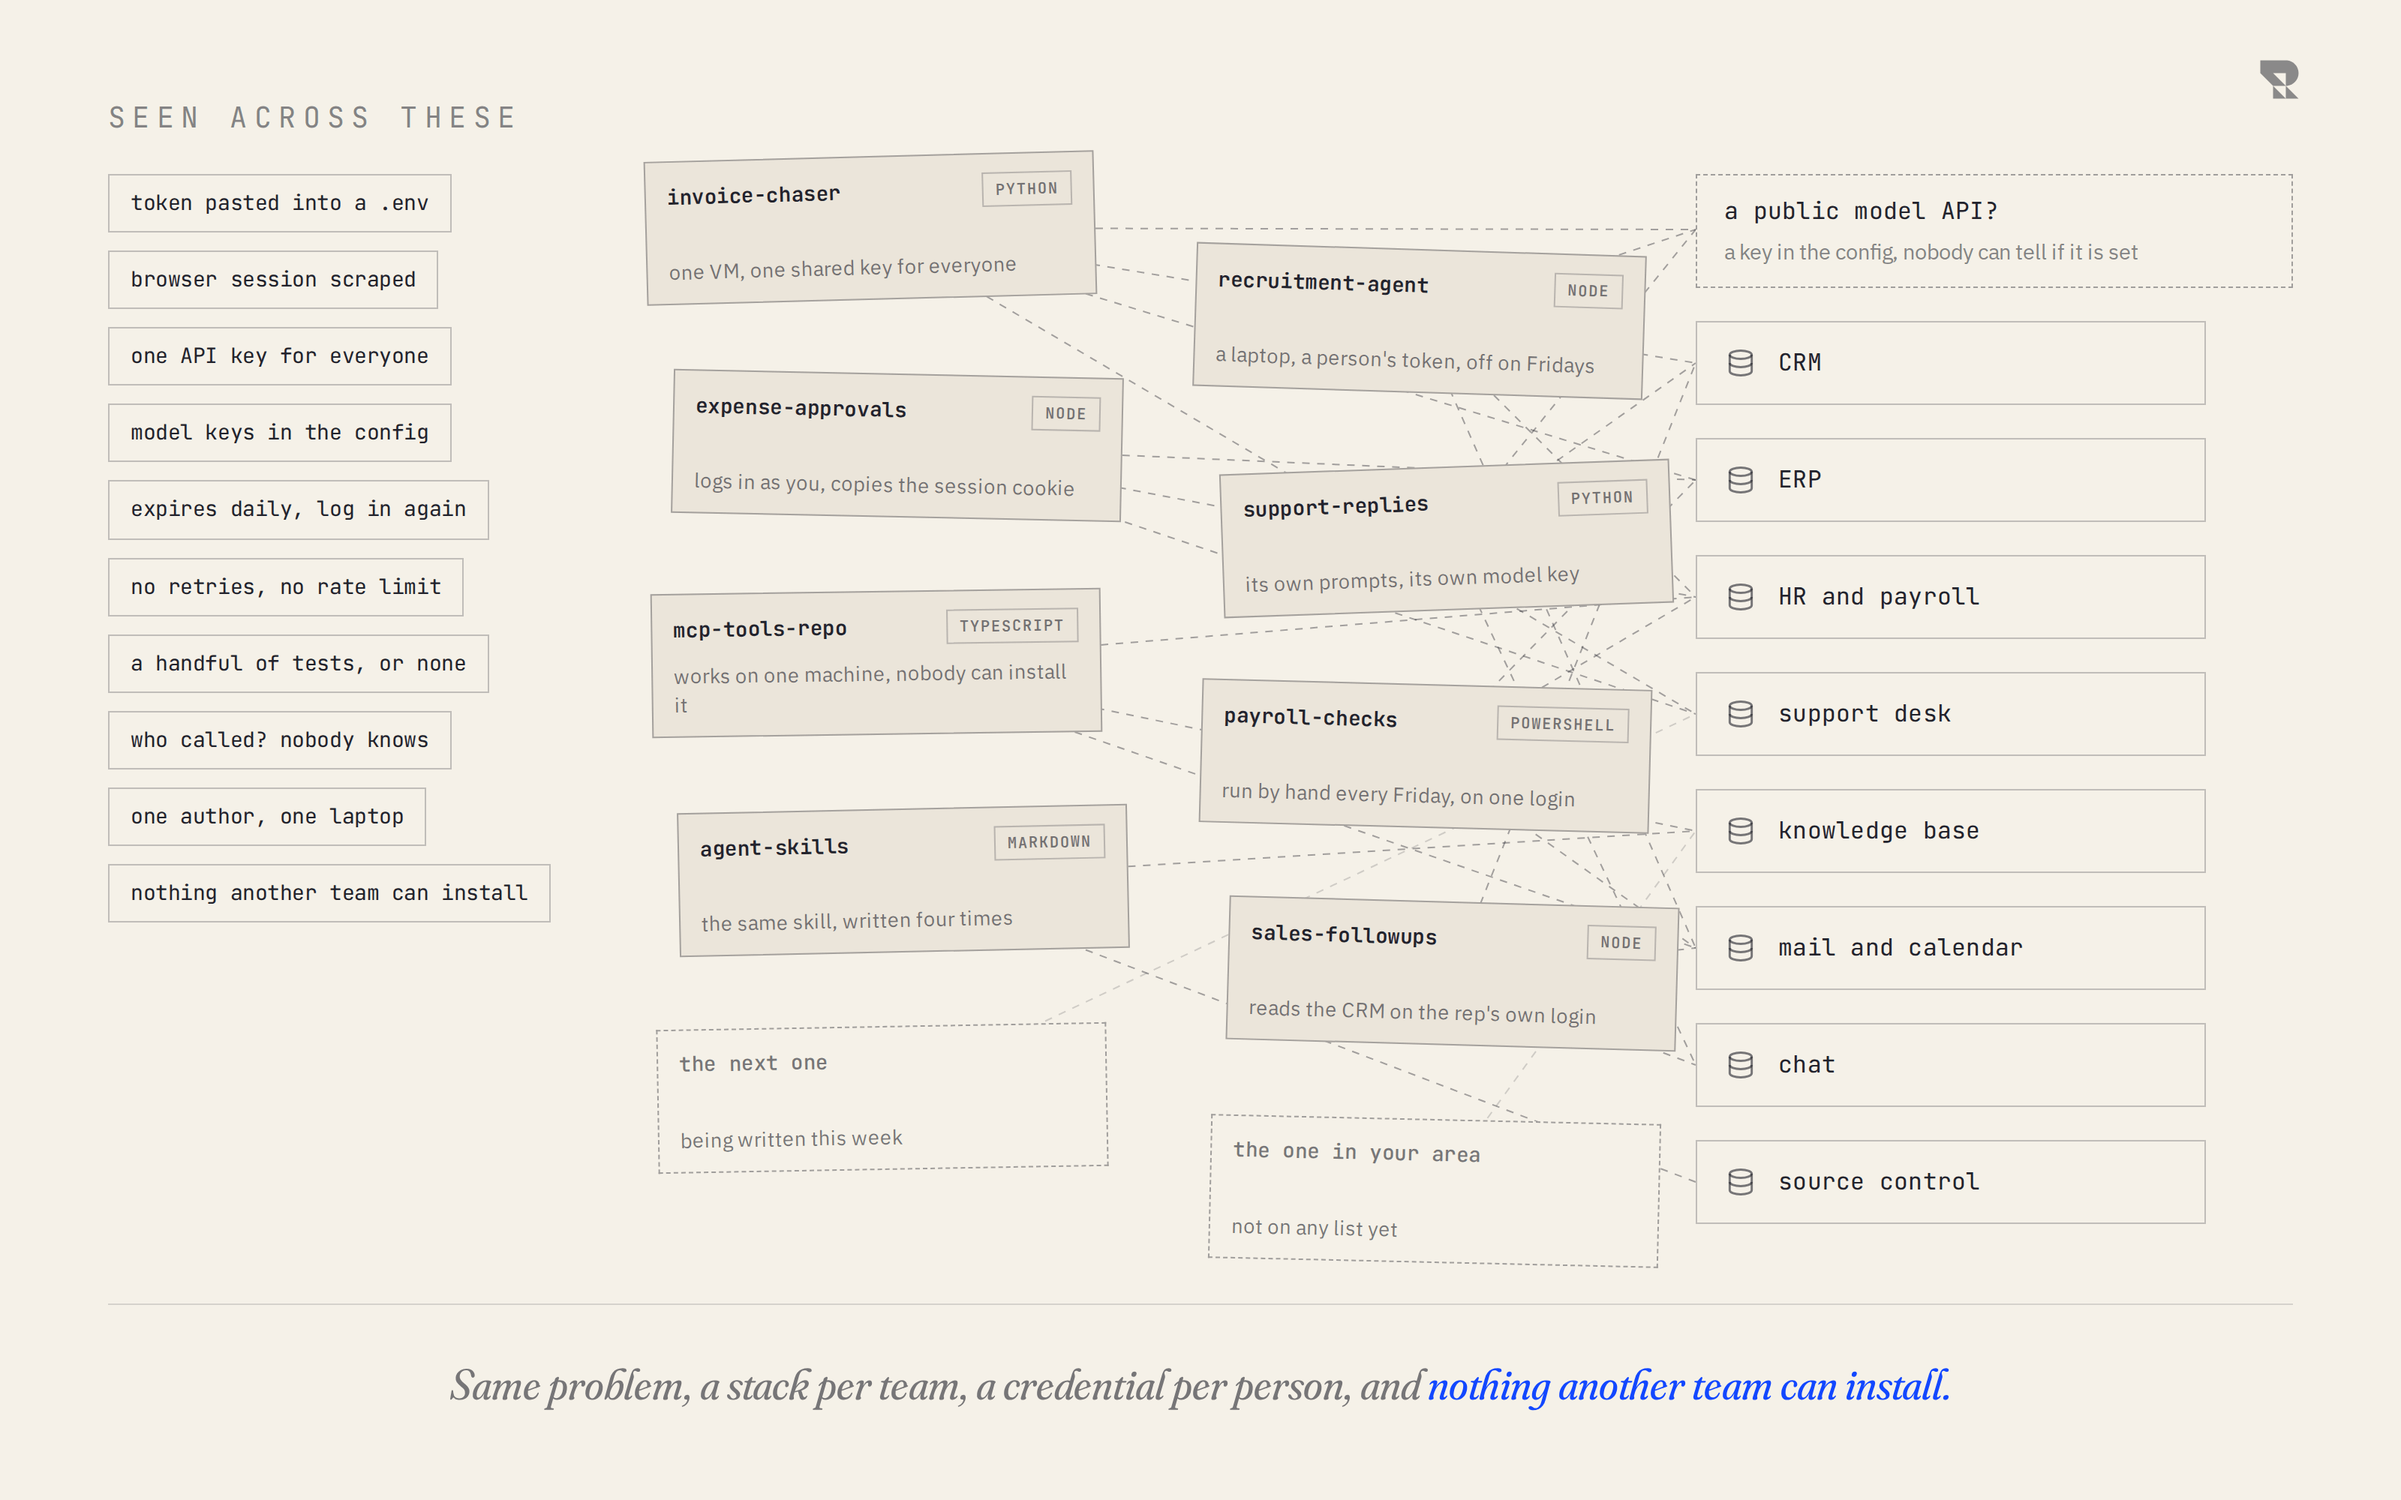
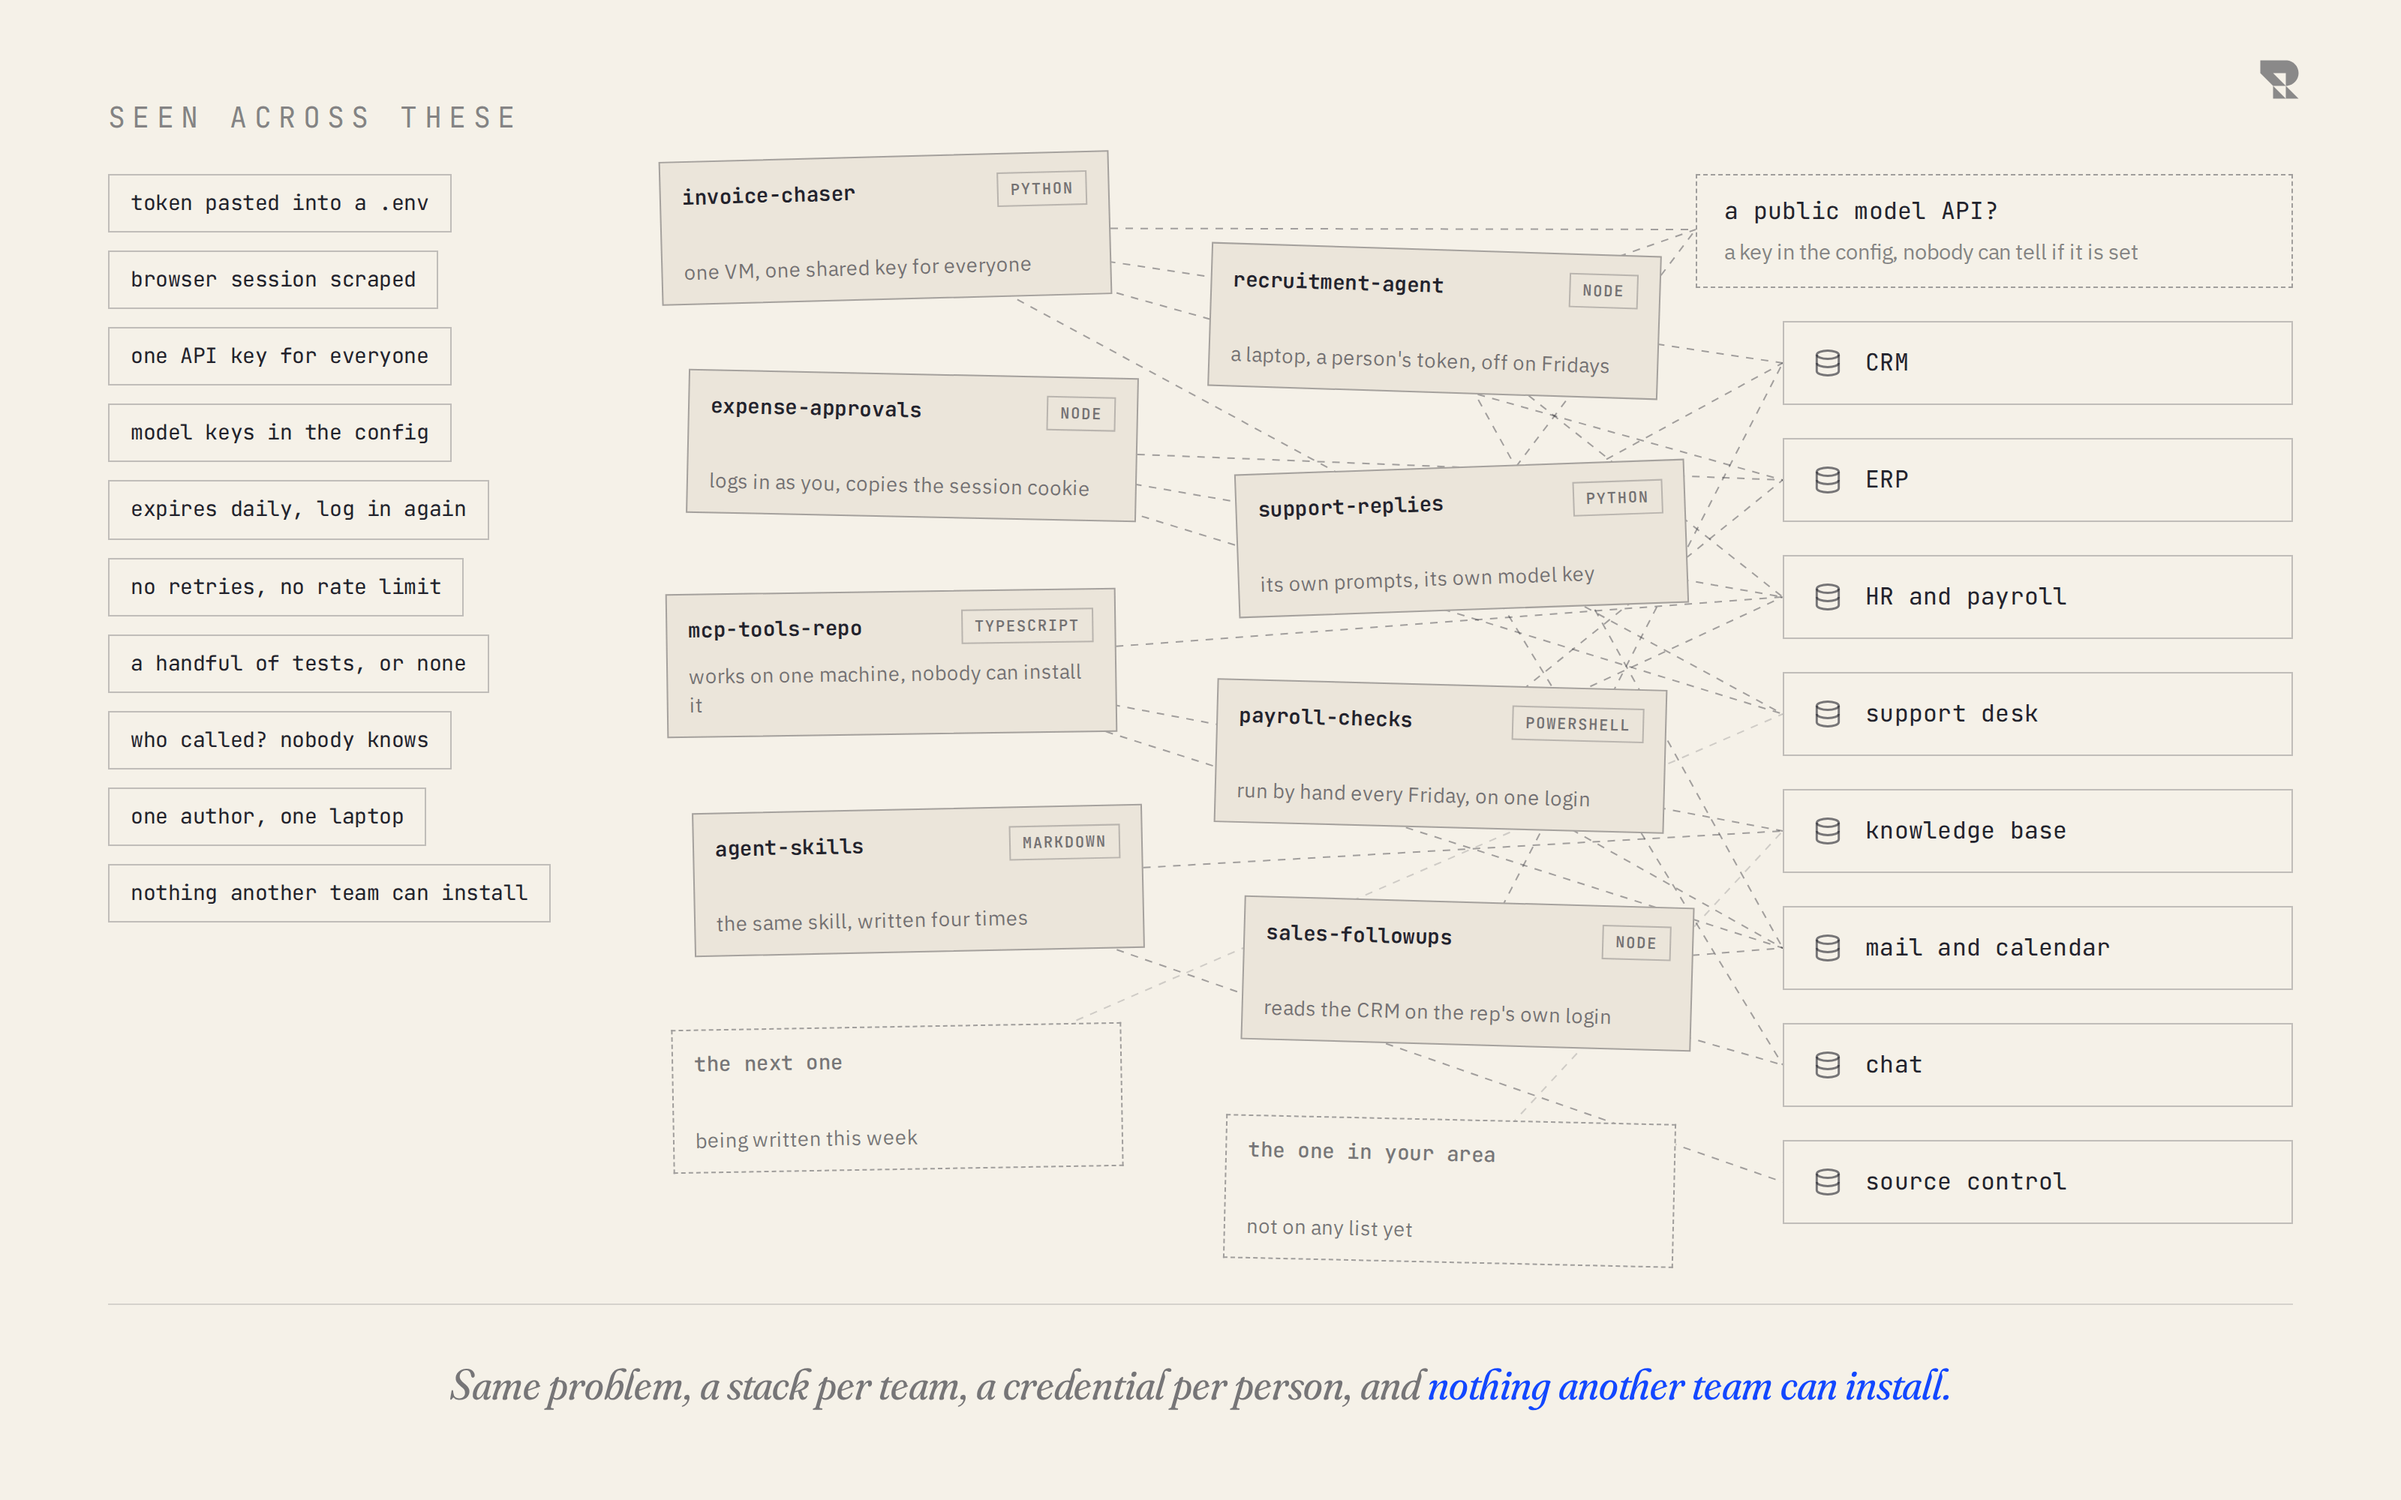
fix(site): centre the cards in the every-team-builds-its-own figure
The systems column stopped 58 px short of the figure's right edge while the
model API box above it ran to the edge, and the right-hand cards nearly
touched the systems. The systems now align to the same right edge as the
model API box and the conclusion rule, and the cards and their wires move
10 px right, so the board sits centred with about 60 px of air between the
pattern chips and the cards and between the cards and the systems. Both
exported PNGs are re-rendered.

diff --git a/apps/routecraft.dev/app/components/figures/every-team-builds-its-own.tsx b/apps/routecraft.dev/app/components/figures/every-team-builds-its-own.tsx
@@ -57,7 +57,7 @@ const CARDS: TeamCard[] = [
     name: 'invoice-chaser',
     lang: 'Python',
     line: 'one VM, one shared key for everyone',
-    left: 358,
+    left: 368,
     top: 40,
     tilt: -1.5,
   },
@@ -65,7 +65,7 @@ const CARDS: TeamCard[] = [
     name: 'recruitment-agent',
     lang: 'Node',
     line: "a laptop, a person's token, off on Fridays",
-    left: 724,
+    left: 734,
     top: 102,
     tilt: 1.8,
   },
@@ -73,7 +73,7 @@ const CARDS: TeamCard[] = [
     name: 'expense-approvals',
     lang: 'Node',
     line: 'logs in as you, copies the session cookie',
-    left: 376,
+    left: 386,
     top: 185,
     tilt: 1.2,
   },
@@ -81,7 +81,7 @@ const CARDS: TeamCard[] = [
     name: 'support-replies',
     lang: 'Python',
     line: 'its own prompts, its own model key',
-    left: 742,
+    left: 752,
     top: 247,
     tilt: -2,
   },
@@ -89,7 +89,7 @@ const CARDS: TeamCard[] = [
     name: 'mcp-tools-repo',
     lang: 'TypeScript',
     line: 'works on one machine, nobody can install it',
-    left: 362,
+    left: 372,
     top: 330,
     tilt: -0.8,
   },
@@ -97,7 +97,7 @@ const CARDS: TeamCard[] = [
     name: 'payroll-checks',
     lang: 'PowerShell',
     line: 'run by hand every Friday, on one login',
-    left: 728,
+    left: 738,
     top: 392,
     tilt: 1.5,
   },
@@ -105,7 +105,7 @@ const CARDS: TeamCard[] = [
     name: 'agent-skills',
     lang: 'Markdown',
     line: 'the same skill, written four times',
-    left: 380,
+    left: 390,
     top: 475,
     tilt: -1.2,
   },
@@ -113,14 +113,14 @@ const CARDS: TeamCard[] = [
     name: 'sales-followups',
     lang: 'Node',
     line: "reads the CRM on the rep's own login",
-    left: 746,
+    left: 756,
     top: 537,
     tilt: 1.6,
   },
   {
     name: 'the next one',
     line: 'being written this week',
-    left: 366,
+    left: 376,
     top: 620,
     tilt: -1,
     ghost: true,
@@ -128,7 +128,7 @@ const CARDS: TeamCard[] = [
   {
     name: 'the one in your area',
     line: 'not on any list yet',
-    left: 734,
+    left: 744,
     top: 682,
     tilt: 1.3,
     ghost: true,
@@ -147,8 +147,16 @@ const BACKENDS = [
   'source control',
 ]
 
-/** Left edge of the backend column, where every wire lands. */
-const BACKEND_X = 1058
+/** Where the board's content ends on the right; both right-hand columns align to it. */
+const CONTENT_RIGHT = 1456
+const BACKEND_W = 340
+const MODEL_API_W = 398
+/** Left edge of the backend column, where the wires to the systems land. */
+const BACKEND_X = CONTENT_RIGHT - BACKEND_W
+/** Left edge of the model API box, which is wider than the systems below it. */
+const MODEL_API_X = CONTENT_RIGHT - MODEL_API_W
+/** The y of the model API box's centre, the one wire target that is not a system. */
+const MODEL_API_Y = 89
 
 interface Wire {
   /** Where the wire leaves a card's edge. */
@@ -160,16 +168,16 @@ interface Wire {
 }
 
 const WIRES: Wire[] = [
-  { from: [508, 88], to: [178, 256, 412, 89] },
-  { from: [874, 150], to: [334, 568, 89] },
-  { from: [526, 233], to: [256, 334, 412] },
-  { from: [892, 295], to: [89, 178, 646] },
-  { from: [512, 378], to: [568, 490, 334] },
-  { from: [878, 440], to: [334, 256, 568] },
-  { from: [530, 523], to: [724, 490] },
-  { from: [896, 585], to: [178, 568, 646] },
-  { from: [516, 668], to: [412], faint: true },
-  { from: [884, 730], to: [490], faint: true },
+  { from: [518, 88], to: [178, 256, 412, MODEL_API_Y] },
+  { from: [884, 150], to: [334, 568, MODEL_API_Y] },
+  { from: [536, 233], to: [256, 334, 412] },
+  { from: [902, 295], to: [MODEL_API_Y, 178, 646] },
+  { from: [522, 378], to: [568, 490, 334] },
+  { from: [888, 440], to: [334, 256, 568] },
+  { from: [540, 523], to: [724, 490] },
+  { from: [906, 585], to: [178, 568, 646] },
+  { from: [526, 668], to: [412], faint: true },
+  { from: [894, 730], to: [490], faint: true },
 ]
 
 function Card({ card, palette }: { card: TeamCard; palette: FigurePalette }) {
@@ -271,7 +279,7 @@ function Figure({ palette }: FigureProps) {
                   key={`${wire.from.join(',')}-${y}`}
                   x1={wire.from[0]}
                   y1={wire.from[1]}
-                  x2={BACKEND_X}
+                  x2={y === MODEL_API_Y ? MODEL_API_X : BACKEND_X}
                   y2={y}
                   opacity={wire.faint ? 0.45 : undefined}
                 />
@@ -312,8 +320,8 @@ function Figure({ palette }: FigureProps) {
 
           <div
             style={{
-              ...at(BACKEND_X, 52),
-              width: 398,
+              ...at(MODEL_API_X, 52),
+              width: MODEL_API_W,
               height: 76,
               border: `1px dashed ${palette.ink40}`,
               background: palette.paper,
@@ -355,7 +363,7 @@ function Figure({ palette }: FigureProps) {
               <div
                 key={backend}
                 style={{
-                  width: 340,
+                  width: BACKEND_W,
                   height: 56,
                   display: 'flex',
                   alignItems: 'center',
